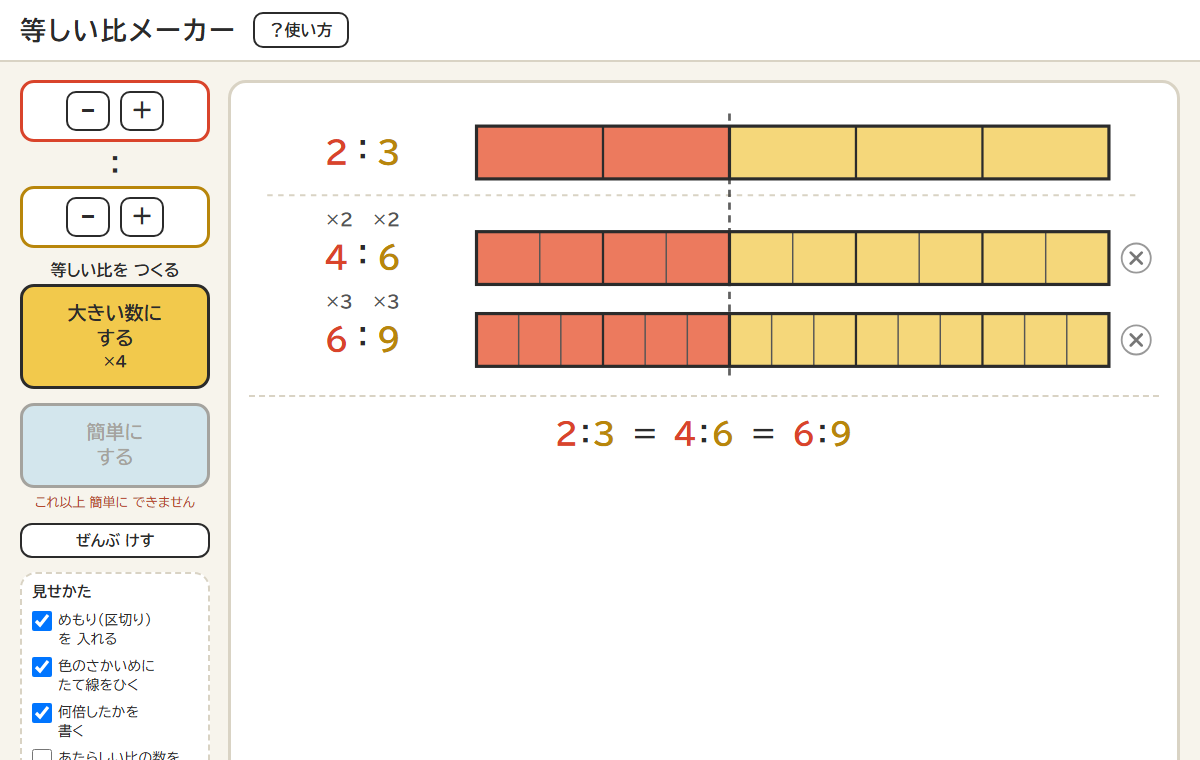
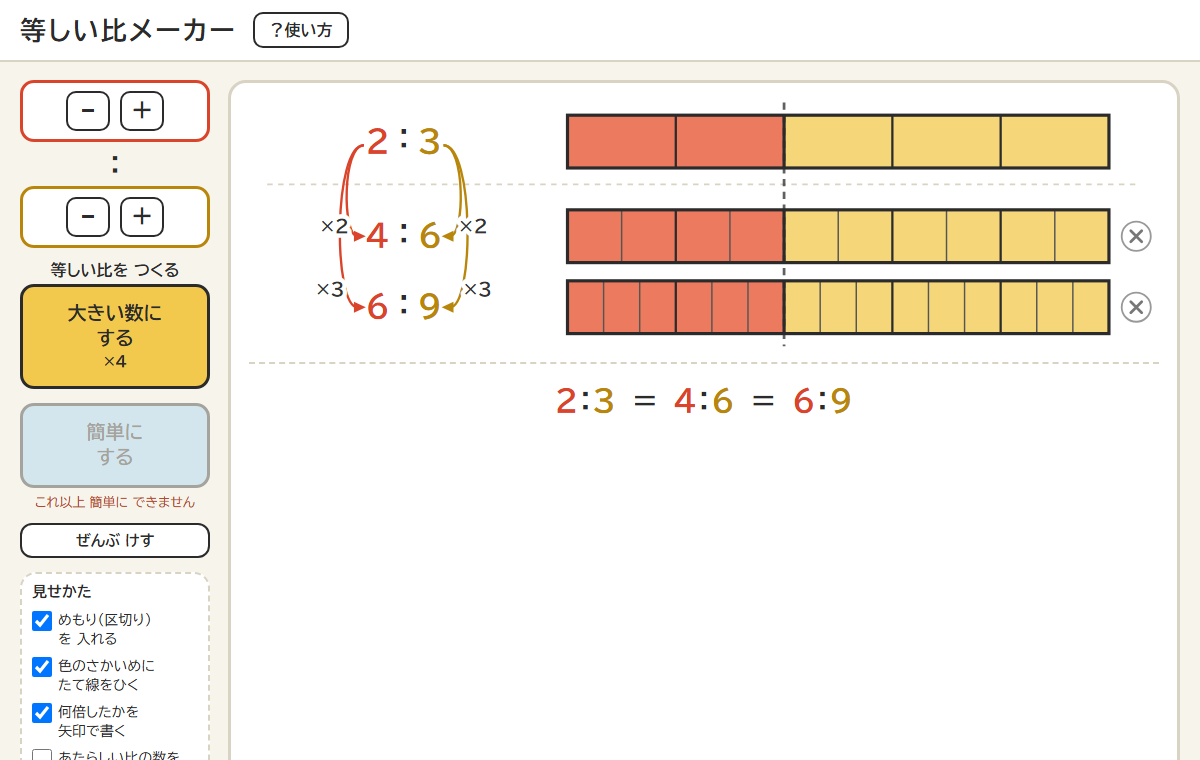
等しい比メーカー：もとの比から 弧の矢印で ×2・÷2 を あらわす

Changed region(s): [[0.2775, 0.1211, 0.9558, 0.4842], [0.4625, 0.5145, 0.7092, 0.6053], [0.0308, 0.9382, 0.0925, 0.9684]]

diff --git a/hi-maker/index.html b/hi-maker/index.html
@@ -137,7 +137,7 @@
       <h3>見せかた</h3>
       <label><input type="checkbox" id="optDiv" checked> <span>めもり（区切り）<br>を 入れる</span></label>
       <label><input type="checkbox" id="optEnd" checked> <span>色のさかいめに<br>たて線をひく</span></label>
-      <label><input type="checkbox" id="optMul" checked> <span>何倍したかを<br>書く</span></label>
+      <label><input type="checkbox" id="optMul" checked> <span>何倍したかを<br>矢印で書く</span></label>
       <label><input type="checkbox" id="optHide"> <span>あたらしい比の数を<br>かくして出す</span></label>
     </div>
   </section>
@@ -250,32 +250,23 @@ document.getElementById('divBtn').onclick   = ()=>addRow('÷', nextDiv());
 document.getElementById('clearBtn').onclick = ()=>{ state.rows = []; lastAdded = -1; render(); };
 
 /* ---------- 右：図 ---------- */
-const LX = 125;                 // 比の「：」の位置
-const X0 = 250, X1 = 945, W = X1 - X0;
+const LX = 170;                 // 比の「：」の位置
+const X0 = 350, X1 = 945, W = X1 - X0;
 const H = 58;                   // テープの高さ
-const MUL_H = 26;               // 「×2」を書く ところ
+const MUL_H = 14;               // 行と行の あいだ
+const NUM_S = 34;               // 比の数の 大きさ
 
 function numW(n, s){ return String(n).length * s * 0.58; }
 
-// 左の比（a：b）。上に ×2 を書く
+// 左の比（a：b）
 function ratioSVG(t, top, r, i){
-  const s = 34, y = top + H/2 + s*0.36;
+  const s = NUM_S, y = top + H/2 + s*0.36;
   const hid = r && r.hidden;
   const ta = hid ? '□' : t.a, tb = hid ? '□' : t.b;
-  const ca = LX - 16 - numW(ta, s)/2, cb = LX + 16 + numW(tb, s)/2;
   let g = `<g font-weight="700" font-size="${s}">
     <text x="${LX-16}" y="${y}" text-anchor="end" fill="${A.main}">${ta}</text>
     <text x="${LX}" y="${y-3}" text-anchor="middle" fill="#2b2b2b">：</text>
     <text x="${LX+16}" y="${y}" text-anchor="start" fill="${B.main}">${tb}</text></g>`;
-  if(r && document.getElementById('optMul').checked){
-    // もとの比から 何倍したか（すぐ上の行からと まちがえないよう、もとの数も書く）
-    const op = r.op + r.k, fs = 18;
-    const wa = numW(state.a + op, fs), wb = numW(state.b + op, fs);
-    const la = Math.min(ca, LX - 8 - wa/2), lb = Math.max(cb, LX + 8 + wb/2);   // 「：」の上で かさならないように
-    g += `<g font-size="${fs}" font-weight="700" text-anchor="middle">
-      <text x="${la}" y="${top-6}"><tspan fill="${A.main}">${state.a}</tspan><tspan fill="#555">${op}</tspan></text>
-      <text x="${lb}" y="${top-6}"><tspan fill="${B.main}">${state.b}</tspan><tspan fill="#555">${op}</tspan></text></g>`;
-  }
   if(hid){   // タップで 見せる
     g += `<rect class="peek" data-i="${i}" x="0" y="${top-MUL_H}" width="${X0-10}" height="${H+MUL_H}" fill="transparent"/>`;
   }
@@ -302,6 +293,22 @@ function tapeSVG(t, top, r){
   return g;
 }
 
+// もとの比から その行へ 弧の矢印（前の数は左に、後の数は右に ふくらむ）
+function arcSVG(r, i, y0, y1, ax, bx){
+  // ×2 は 矢じりの 少し手前（t=0.8 の あたり）に書く
+  const b = 24 + 10*i, lab = r.op + r.k, ym = y0 + (y1-y0)*0.9 + 6;
+  let lines = '', labels = '';
+  const one = (x, dir, col) => {
+    const e = x - dir*7;   // 矢じりの ねもと
+    lines += `<path d="M${x} ${y0} C${x-dir*b} ${y0}, ${x-dir*b} ${y1}, ${e} ${y1}" fill="none" stroke="${col}" stroke-width="2.6"/>
+      <path d="M${x+dir*2} ${y1} L${e-dir*4} ${y1-6} L${e-dir*4} ${y1+6} Z" fill="${col}"/>`;
+    labels += `<text x="${x - dir*(b*0.48+5)}" y="${ym}" text-anchor="${dir>0?'end':'start'}" font-size="20" font-weight="700"
+        fill="#333" stroke="#fff" stroke-width="9" stroke-linejoin="round" paint-order="stroke">${lab}</text>`;
+  };
+  one(ax, 1, A.main); one(bx, -1, B.main);
+  return {lines, labels};
+}
+
 function delSVG(i, top){
   const cx = X1 + 30, cy = top + H/2;
   return `<g class="del" data-i="${i}">
@@ -323,12 +330,21 @@ function render(){
     body += `<line x1="20" x2="980" y1="${y}" y2="${y}" stroke="#d9d3c4" stroke-width="2" stroke-dasharray="6 6"/>`;
     y += 8;
   }
+  // 矢印の 出入りする x（いちばん はばの広い数に 合わせる）
+  const all = [base, ...state.rows.map(termsOf)];
+  const ax = LX - 16 - Math.max(...all.map(t=>numW(t.a, NUM_S))) - 8;
+  const bx = LX + 16 + Math.max(...all.map(t=>numW(t.b, NUM_S))) + 8;
+  const showArc = document.getElementById('optMul').checked;
+  let arcLabels = '';   // 文字は ほかの矢印に かくれないよう 最後に書く
   state.rows.forEach((r,i)=>{
     y += MUL_H + 6;
     const t = termsOf(r);
-    body += `<g class="row${i===lastAdded?' new':''}">${ratioSVG(t, y, r, i)}${tapeSVG(t, y, r)}${delSVG(i, y)}</g>`;
+    const arc = showArc ? arcSVG(r, i, firstTop + H/2 + 4, y + H/2, ax, bx) : {lines:'', labels:''};
+    arcLabels += `<g class="row${i===lastAdded?' new':''}">${arc.labels}</g>`;
+    body += `<g class="row${i===lastAdded?' new':''}">${arc.lines}${ratioSVG(t, y, r, i)}${tapeSVG(t, y, r)}${delSVG(i, y)}</g>`;
     y += H;
   });
+  body += arcLabels;
   const total = y + 20;
   // 前と後の さかいめ（どの行も 同じところ）
   if(document.getElementById('optEnd').checked && state.rows.length){
@@ -378,7 +394,7 @@ render();
       <li>「大きい数にする」を おすたびに、前と後に 同じ数を かけた比が 下に ふえます（×2、×3 …）。</li>
       <li>「簡単にする」は、前と後を 同じ数で わった比を つくります（20：30 → ÷2、÷5、÷10。われないときは おせません）。</li>
       <li>ボタンの下の ×2・÷2 は、つぎに できる比です。</li>
-      <li>下の比は どれも いちばん上の もとの比から つくります。数の上の「2×5」は「もとの 2 を 5倍した」という意味です。</li>
+      <li>下の比は どれも いちばん上の もとの比から つくります。矢印は もとの比から のびていて、「×5」は もとの数を 5倍した という意味です。</li>
       <li>テープの 長さは そろえてあるので、色の さかいめが どの比も 同じところに なります。かけ算で ふえた線は 細い線です。</li>
       <li>右の ⊗ で その比を けせます。もとの比を かえると、下の比も 同じ倍で つくりなおします。</li>
     </ul>
